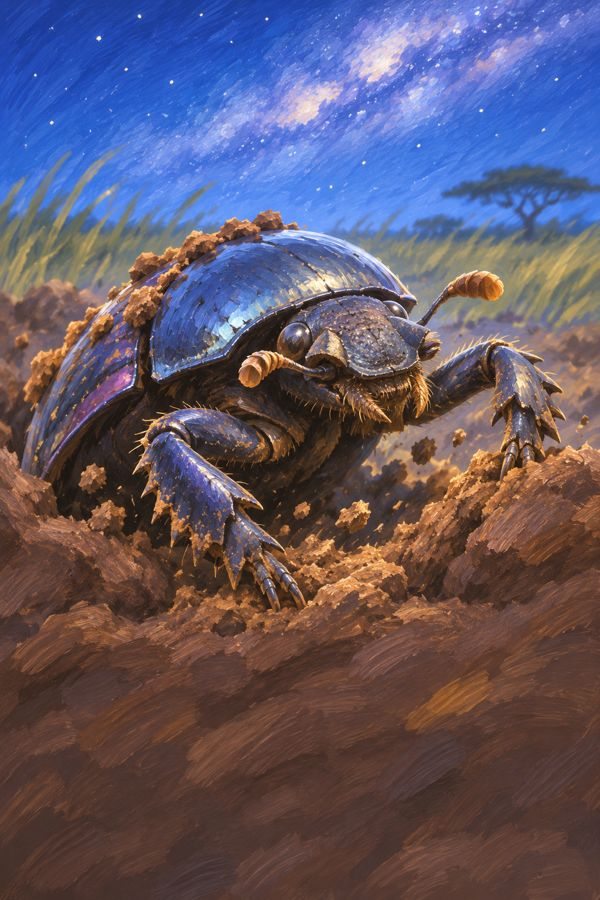
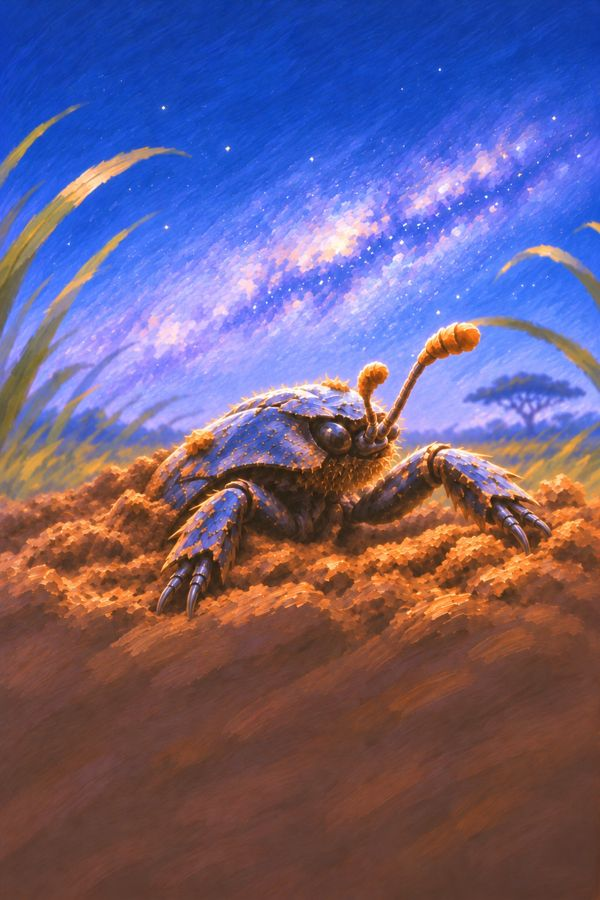
Card art installed: El'Rahhal: Birth, small and new breaking out of the soil under the Milky Way, facing toward us (Martin's pick elr_b6t4, 2026-11-13), with crops
Claude-Session: https://claude.ai/code/session_01Ehedr5sDad4ssm8isnRnR1

diff --git a/animal_kingdom/web/static/art.js b/animal_kingdom/web/static/art.js
@@ -6,7 +6,7 @@ export const CROP = {
   orangutan_legend: [.58, .28, .7],
   tiger_legend: [.61, .41, .66],
   bee_legend_2: [.62, .33, .55],
-  dung_beetle_legend: [.52, .4, .75],
+  dung_beetle_legend: [.62, .52, .55],
   great_stag: [.7, .3, .6],
   young_stag: [.7, .27, .5],
   deer_legend_2: [.64, .46, .68],
@@ -202,7 +202,7 @@ export const STRIP = {
   orangutan_legend: [.6, .2, 1],
   tiger_legend: [.61, .38, 1.2],
   bee_legend_2: [.5, .34, 1.2],
-  dung_beetle_legend: [.5, .42, 1.2],
+  dung_beetle_legend: [.6, .5, 1.2],
   great_stag: [.7, .3, 1.2],
   young_stag: [.7, .27, 1.2],
   deer_legend_2: [.64, .45, 1.3],
@@ -391,7 +391,7 @@ export const FULL = {
   orangutan_legend: .384,
   tiger_legend: .42,
   bee_legend_2: .33,
-  dung_beetle_legend: .4,
+  dung_beetle_legend: .5,
   great_stag: .33,
   young_stag: .3,
   deer_legend_2: .45,
